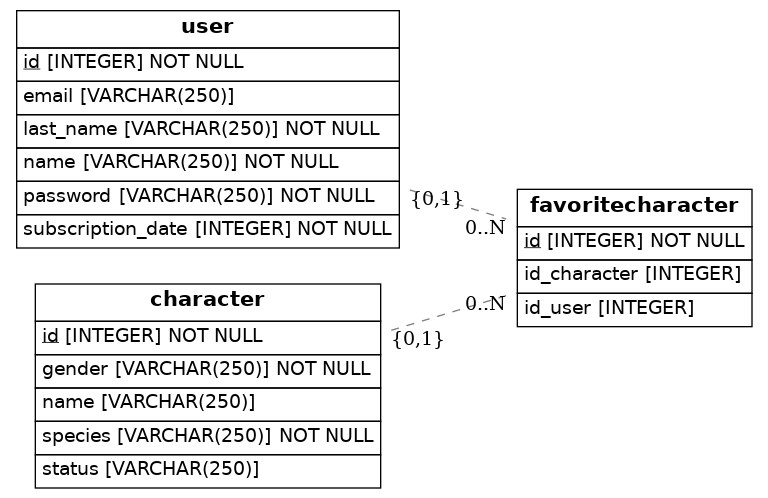
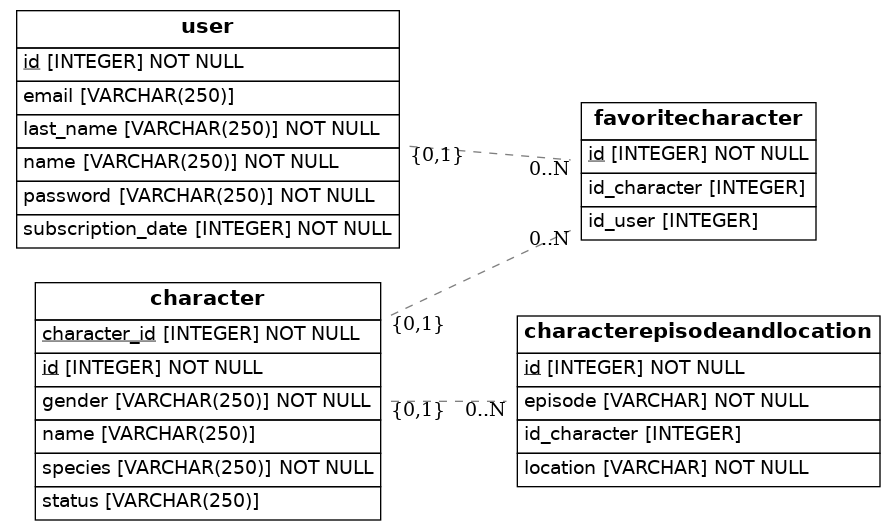
tarea terminada

Changed region(s): [[0.0, 0.0, 1.0, 0.994]]

diff --git a/src/models.py b/src/models.py
@@ -23,11 +23,20 @@ class Character(Base):
     # Here we define columns for the table address.
     # Notice that each column is also a normal Python instance attribute.
     id = Column(Integer, primary_key=True)
+    character_id = Column(Integer, primary_key=True)
     name = Column(String(250))
     status = Column(String(250))
     species = Column(String(250), nullable=False)
     gender = Column(String(250), nullable=False)
-    ##character_id = Column(Integer, primary_key=True)
+   
+
+class CharacterEpisodeAndLocation(Base):
+     __tablename__ = 'characterepisodeandlocation'
+     id = Column (Integer, primary_key= True)
+     id_character = Column (Integer, ForeignKey('character.character_id'))
+     episode= Column(String, nullable= False)
+     location=  Column(String, nullable=False)
+     character= relationship(Character)
     
 
 
